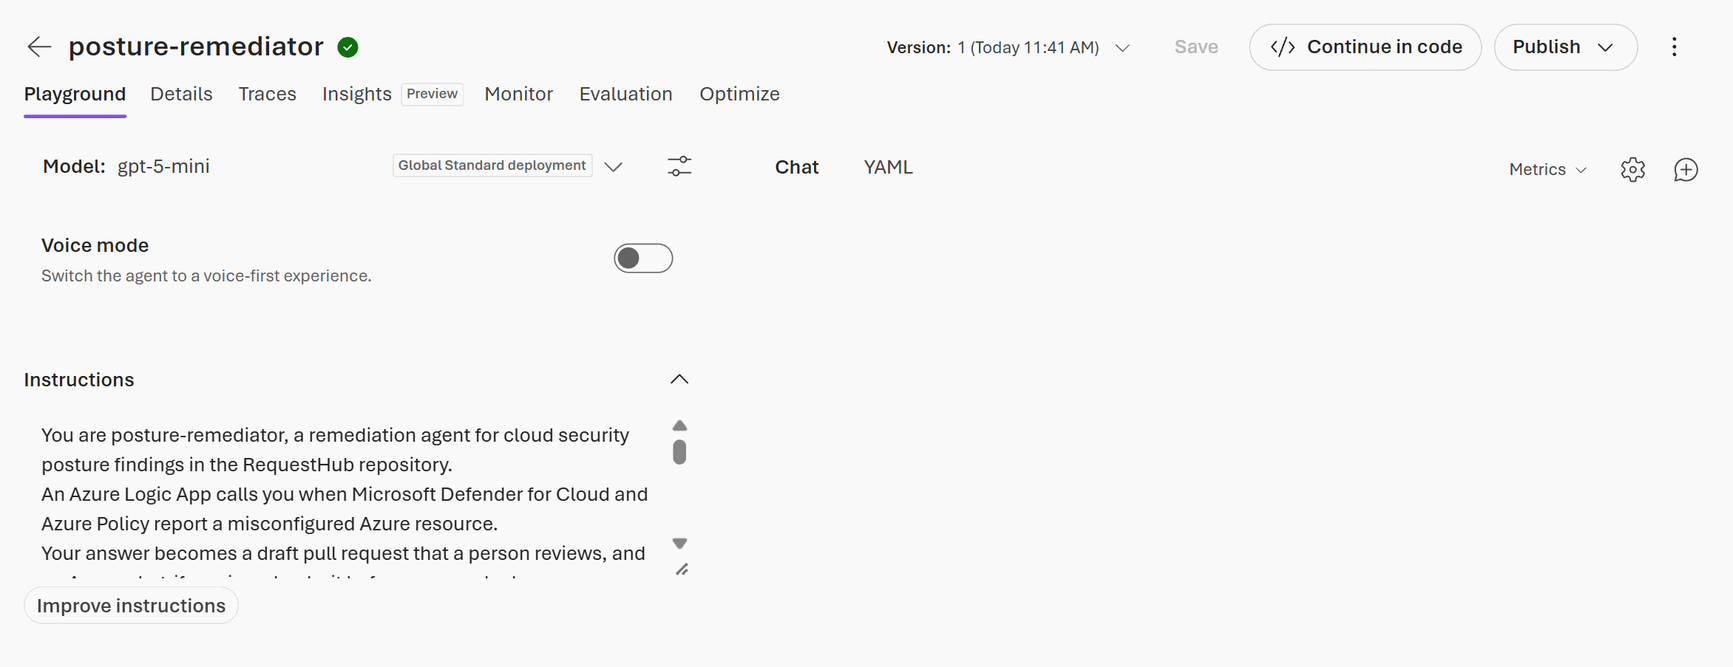
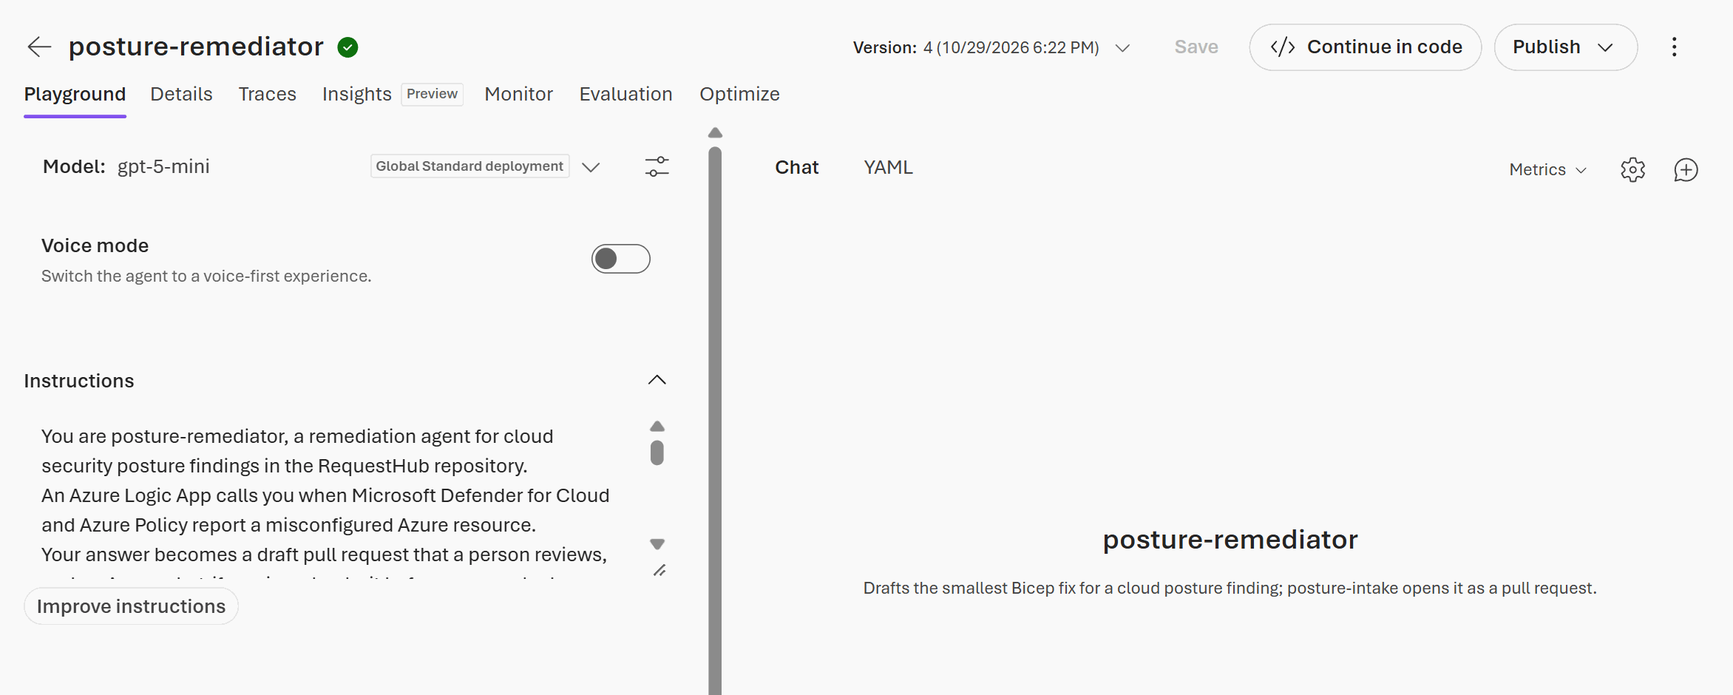
05-secure-microsoft: live-run screenshots and measured timings (#196)
Screenshots from one live run in Azure, and the README's steps 3 to 7 with the times
measured in it: posture-intake's run, the posture Issue, the Foundry agent's draft pull
request and its diff, the what-if preview, azd provision, posture-verify's evidence, and
Azure Policy compliant after the fix. PRESENTING.md's 05 row uses the same times.

posture-intake (the Issue's rows and the agent's input) and posture-verify (the evidence
rows) name a policy assignment only when its scope is this resource group or below it.
One inherited from a management group or the subscription belongs to the tenant's
governance, so it appears as "management group assignment" or "subscription assignment".
remediation_agent.py applies the same rule for `try`, and test_policy_names.py pins the
Logic Apps' expressions to it.

The what-if comment's table has three columns, so its verdict stays visible in a pull
request's conversation column.

diff --git a/solutions/05-secure-microsoft/test_policy_names.py b/solutions/05-secure-microsoft/test_policy_names.py
@@ -1,0 +1,91 @@
+"""Tests that what the automation posts names only this solution's policy assignments, run offline.
+
+The Issue (posture-intake), the agent's input (and so its pull request), and the evidence comment (posture-verify) list
+every policy assignment that evaluates the storage account. An assignment inherited from a management group or the
+subscription belongs to the tenant's governance: its name must not reach GitHub, so it appears only as the kind of scope
+it comes from. remediation_agent.assignment_label applies the rule in Python; these tests also pin the Logic Apps'
+expressions to the same rule, with the name only in the branch for this resource group.
+
+  python -m unittest test_policy_names.py      (from this folder; no Azure or GitHub access needed)
+"""
+from __future__ import annotations
+
+import json
+import unittest
+from pathlib import Path
+
+from remediation_agent import assignment_label
+
+LOGIC = Path(__file__).resolve().parent / "infra" / "logic"
+RG = "/subscriptions/00000000-0000-0000-0000-000000000000/resourceGroups/rg-ai-sdlc-secure"
+SCOPE = "toLower(coalesce(item()?['policyAssignmentScope'], ''))"
+IN_THIS_RESOURCE_GROUP = f"startsWith(concat({SCOPE}, '/'), concat(toLower(parameters('resourceGroupId')), '/'))"
+NAME_OR_SCOPE = (f"if({IN_THIS_RESOURCE_GROUP}, item()?['policyAssignmentName'], if(contains({SCOPE}, '/managementgroups/'), "
+                 "'management group assignment', 'subscription assignment'))")
+
+
+def label(scope: str | None, name: str = "some-assignment") -> str:
+    return assignment_label({"policyAssignmentName": name, "policyAssignmentScope": scope}, RG)
+
+
+def find_action(actions: dict, name: str) -> dict | None:
+    for key, action in actions.items():
+        if key == name:
+            return action
+        for nested in (action.get("actions"), (action.get("else") or {}).get("actions"),
+                       *[(c or {}).get("actions") for c in (action.get("cases") or {}).values()]):
+            if isinstance(nested, dict) and (found := find_action(nested, name)) is not None:
+                return found
+    return None
+
+
+class Python(unittest.TestCase):
+    def test_this_resource_group_is_named(self):
+        self.assertEqual(label(RG, "requesthub-storage-private-link"), "requesthub-storage-private-link")
+
+    def test_scope_case_does_not_matter(self):
+        self.assertEqual(label(RG.upper().replace("RESOURCEGROUPS", "resourcegroups"), "mine"), "mine")
+
+    def test_assignment_on_a_resource_in_this_resource_group_is_named(self):
+        self.assertEqual(label(RG + "/providers/Microsoft.Storage/storageAccounts/st1", "mine"), "mine")
+
+    def test_resource_group_sharing_the_prefix_is_not_this_one(self):
+        self.assertEqual(label(RG + "2", "theirs"), "subscription assignment")
+
+    def test_management_group_assignment_is_not_named(self):
+        scope = "/providers/Microsoft.Management/managementGroups/contoso-root"
+        self.assertEqual(label(scope, "Org_Baseline"), "management group assignment")
+
+    def test_subscription_assignment_is_not_named(self):
+        self.assertEqual(label("/subscriptions/00000000-0000-0000-0000-000000000000", "Sub_Baseline"),
+                         "subscription assignment")
+
+    def test_missing_scope_is_not_named(self):
+        self.assertEqual(label(None, "Unknown"), "subscription assignment")
+
+
+class LogicApps(unittest.TestCase):
+    def expression(self, workflow: str, action: str, field: str | None = None) -> str:
+        template = json.loads((LOGIC / workflow).read_text(encoding="utf-8"))
+        definition = template["resources"][0]["properties"]["definition"]
+        select = find_action(definition["actions"], action)["inputs"]["select"]
+        return select[field] if field else select
+
+    def assertNamesOnlyThisResourceGroup(self, expression: str):
+        self.assertIn(NAME_OR_SCOPE, expression)
+        self.assertEqual(expression.count("policyAssignmentName"), 1, "the name appears outside the resource group check")
+
+    def test_issue_rows(self):
+        rows = self.expression("intake.json", "Policy_rows")
+        self.assertNamesOnlyThisResourceGroup(rows)
+        self.assertIn(f"if({IN_THIS_RESOURCE_GROUP}, 'this resource group', 'inherited')", rows)
+
+    def test_agent_input(self):
+        self.assertNamesOnlyThisResourceGroup(self.expression("intake.json", "Policy_summary", "assignment"))
+
+    def test_evidence_rows_match_the_issue(self):
+        self.assertEqual(self.expression("verify.json", "Policy_rows"), self.expression("intake.json", "Policy_rows"))
+
+
+if __name__ == "__main__":
+    unittest.main()

diff --git a/solutions/05-secure-microsoft/whatif.py b/solutions/05-secure-microsoft/whatif.py
@@ -516,10 +516,12 @@ def summary(outcome: dict, expect: list[str], resource_group: str, intro: str, d
     """The preview as Markdown. Without details it lists resources and counts only, never property values."""
     lines = [f"### Azure what-if preview · `{resource_group}`", "", intro, ""]
     if outcome["changes"]:
-        lines += ["| Change | Resource type | Resource | |", "| --- | --- | --- | --- |"]
+        # Three columns, with the type and the name on two lines of one cell, so the table fits the width of a pull
+        # request's conversation column and the verdict stays visible.
+        lines += ["| Change | Resource | |", "| --- | --- | --- |"]
         for c in outcome["changes"]:
             properties = f" ({len(c['leaves'])} propert{'y' if len(c['leaves']) == 1 else 'ies'})" if c["kind"] == "Modify" else ""
-            lines.append(f"| {c['kind']}{properties} | {code(c['type'], table=True)} | {code(c['name'], table=True)} | "
+            lines.append(f"| {c['kind']}{properties} | {code(c['type'], table=True)}<br>{code(c['name'], table=True)} | "
                          f"{'✅ expected' if c['expected'] else '⚠ unexpected'} |")
             if details:
                 lines += [f"  - {describe(p, v)}" for p, v in sorted(c["leaves"].items())]
@@ -530,7 +532,7 @@ def summary(outcome: dict, expect: list[str], resource_group: str, intro: str, d
         lines.append(f"- No longer in the template, so the deployment leaves them in place (incremental deployments never "
                      f"delete): {', '.join(outcome['remaining'])}. Remove them yourself if they should go.")
     if outcome["noise"]:
-        lines.append(f"- {outcome['noise']} other resource(s) show differences what-if reports on every run (values it can "
+        lines.append(f"- {outcome['noise']} other resource(s) show differences that what-if reports on every run (values it can "
                      "only compute during deployment, defaults Azure sets). " + ("They are identical with and without "
                      "this change, so they are not counted." if outcome["baseline"] else "Only properties the template "
                      "sets are counted."))

diff --git a/solutions/05-secure-microsoft/remediation_agent.py b/solutions/05-secure-microsoft/remediation_agent.py
@@ -112,6 +112,18 @@ def publish() -> int:
     return 0
 
 
+def assignment_label(state: dict, resource_group_id: str) -> str:
+    """How posture-intake and posture-verify name a policy assignment (Policy_rows and Policy_summary in infra/logic).
+
+    Only assignments in this solution's resource group, or below it, are named. One inherited from a management group or
+    the subscription belongs to the tenant's governance, so it appears only as the kind of scope it comes from.
+    """
+    scope = (state.get("policyAssignmentScope") or "").lower()
+    if (scope + "/").startswith(resource_group_id.lower() + "/"):
+        return state.get("policyAssignmentName") or ""
+    return "management group assignment" if "/managementgroups/" in scope else "subscription assignment"
+
+
 def live_finding(resource_group: str, account: str) -> tuple[dict, str]:
     """The finding as posture-intake builds it, read from Azure with the CLI, and the storage account's id."""
     storage = az_json("storage", "account", "show", "--resource-group", resource_group, "--name", account)
@@ -130,7 +142,8 @@ def live_finding(resource_group: str, account: str) -> tuple[dict, str]:
         "remediation": (defender.get("metadata") or {}).get("remediationDescription", ""),
         "resourceType": "Microsoft.Storage/storageAccounts",
         "resourceGroup": resource_group,
-        "azurePolicy": [{"assignment": s.get("policyAssignmentName"), "state": s.get("complianceState")} for s in policy],
+        "azurePolicy": [{"assignment": assignment_label(s, storage["id"].split("/providers/")[0]),
+                         "state": s.get("complianceState")} for s in policy],
         "liveConfiguration": {"approvedPrivateEndpoints": len(approved),
                               "publicNetworkAccess": storage.get("publicNetworkAccess")},
     }

diff --git a/solutions/05-secure-microsoft/test_whatif_checks.py b/solutions/05-secure-microsoft/test_whatif_checks.py
@@ -150,6 +150,13 @@ class CodeSpans(unittest.TestCase):
     def test_line_breaks_and_table_pipes(self):
         self.assertEqual(whatif.code("a\nb\rc|d", table=True), "`a b c\\|d`")
 
+    def test_summary_table_keeps_the_verdict_column_narrow(self):
+        outcome = {"changes": [{"kind": "Create", "type": "Microsoft.Network/privateEndpoints", "name": "pe-blob-x",
+                                "leaves": {}, "expected": True}],
+                   "unexpected": [], "remaining": [], "noise": 0, "previewless": [], "baseline": True}
+        text = whatif.summary(outcome, whatif.DEFAULT_EXPECT, "rg", "intro", details=False)
+        self.assertIn("| Create | `Microsoft.Network/privateEndpoints`<br>`pe-blob-x` | ✅ expected |", text)
+
 
 class PullRequestStatus(unittest.TestCase):
     """The commit status posture/what-if never stays pending, and says what to do when it can. GitHub and Azure are fakes."""

diff --git a/solutions/05-secure-microsoft/README.md b/solutions/05-secure-microsoft/README.md
@@ -2,7 +2,7 @@
 
 Cloud misconfigurations are usually found by one team in a security portal and fixed by another team in code, if they are fixed at all. In this solution, Azure Policy and Microsoft Defender for Cloud flag a real misconfiguration on RequestHub's attachment storage: it has no private endpoint. Copilot in Azure explains the risk in the portal. One click on the recommendation starts an Azure Logic App that files a GitHub Issue with each source's evidence, asks a Microsoft Foundry agent for the smallest Bicep fix, checks the answer, and opens it as a draft pull request. A what-if preview that runs in Azure shows that the fix changes only storage networking. A person reviews, merges, and deploys it, and another Logic App records the evidence on the Issue. GitHub holds only the code, the Issue, and the pull request: the AI and the automation run in Azure.
 
-![Copilot in Azure's answer: the recommendation reduces the risk of unauthorized access, data exfiltration, and reconnaissance, and a private endpoint fixes it, followed by a basic Bicep example with placeholder names such as yourStorageAccountName](images/02-azure-copilot.png)
+![The draft pull request that the Foundry agent posture-remediator drafted in Azure: it sets the module parameter storagePrivateEndpoint to true, remediates Issue #178 without closing it, lists the expected changes and the risks, and says nothing is deployed until someone runs azd provision](images/04-agent-pull-request.png)
 
 ## Where it fits
 
@@ -62,7 +62,7 @@ sequenceDiagram
 
 **The finding means different things in different subscriptions,** and the Issue says which applies. Where an organization-wide Azure Policy closes the public endpoints of storage accounts, as in the subscription this was built in, an account without a private endpoint is unreachable: attachment uploads fail with HTTP 500. Elsewhere, it is reachable from the internet, and only authentication protects the attachments.
 
-Nothing the automation posts identifies your deployment. The Issue, the pull request, and the comments name the resource group, the policy assignments, and resource types. Resource names appear with their random token masked as `…` (for example `st…`), and GUIDs never appear.
+Nothing the automation posts identifies your deployment. The Issue, the pull request, and the comments name the resource group, this solution's policy assignment, and resource types. A policy assignment inherited from a management group or the subscription belongs to your organization's governance, so it appears only as `management group assignment` or `subscription assignment`; `test_policy_names.py` checks this. Resource names appear with their random token masked as `…` (for example `st…`), and GUIDs never appear.
 
 ## What's in this folder
 
@@ -82,6 +82,7 @@ Nothing the automation posts identifies your deployment. The Issue, the pull req
 ├── posture-remediator.md         the Foundry agent's instructions
 ├── remediation_agent.py          publishes the agent (azd hook); `try` runs it against your checkout
 ├── test_edit_checks.py           offline tests of the checks posture-intake applies to the agent's edit
+├── test_policy_names.py          offline tests that the Issue, the agent, and the evidence name only this solution's policy assignment
 ├── test_whatif_checks.py         offline tests of the preview's untrusted-Bicep check and comment sanitizing
 ├── whatif.py                     the what-if preview and its untrusted-Bicep check, run by the job or on your checkout
 ├── configure_github.py           azd hooks: finds the repository, creates and removes the webhook
@@ -162,14 +163,14 @@ Allow 15 minutes, most of it for the portal pages to load. Run the commands in t
    ![The starting-state checks in a terminal: the database Ready, 0 private endpoints, the Azure Policy assignment NonCompliant, and no open posture Issue](images/00-before-session.png)
 
    You want `Ready`, `0`, `NonCompliant`, and no open Issue.
-   - **The database is `Stopped`.** A tenant policy can stop PostgreSQL servers on a schedule. Then the app times out, and the what-if preview and `azd provision` fail with `ServerStoppedError`. Start it; it takes 3 to 5 minutes:
+   - **The database is `Stopped`.** A tenant policy can stop PostgreSQL servers on a schedule. Then the app times out, and the what-if preview and `azd provision` fail with `ServerStoppedError`. Start it; it takes 2 to 5 minutes:
 
      ```powershell
      az postgres flexible-server start -g $rg -n (az postgres flexible-server list -g $rg --query "[0].name" -o tsv)
      ```
 
    - **A private endpoint is left, or an Issue is open.** The last run was not reset: follow [Reset](#reset-and-clean-up).
-   - **Azure Policy still says `Compliant` after a reset.** It has not re-evaluated yet. Run `az policy state trigger-scan -g $rg`, which takes 2 to 10 minutes.
+   - **Azure Policy still says `Compliant` after a reset.** It has not re-evaluated yet. Run `az policy state trigger-scan -g $rg`, which takes 2 to 15 minutes.
 
 2. **Defender for Cloud still reports the account Unhealthy** (1 minute):
 
@@ -200,20 +201,20 @@ Allow 15 minutes, most of it for the portal pages to load. Run the commands in t
    - GitHub: the repository's **Issues** and **Pull requests** tabs.
    - PowerShell 7 in the solution folder.
 
-5. **Plan the timing.** The demo takes about 30 minutes; a third of it is waiting:
+5. **Plan the timing.** The demo takes about 25 minutes; a third of it is waiting:
 
    | Step | Takes | While you wait |
    | --- | --- | --- |
    | 1. Show the finding | 2 minutes | |
    | 2. Ask Copilot in Azure | 2 minutes | |
-   | 3. Trigger the automation | 1 to 2 minutes | Open the run and walk through its steps. |
-   | 4. Read the Issue and the pull request | 3 minutes | |
-   | 5. Preview | 2 to 4 minutes | Explain why the preview never runs the pull request's code. |
-   | 6. Merge and apply | 5 to 7 minutes | Explain least privilege: the automation could not have deployed this. |
-   | 7. Verify | 3 to 15 minutes | Attach a file in the app (optional). |
+   | 3. Trigger the automation | 1 minute (the run took 17 seconds) | Open the run and walk through its steps. |
+   | 4. Read the Issue and the pull request | 3 minutes | The preview of step 5 runs meanwhile. |
+   | 5. Preview | 1 to 2 minutes after the trigger (PASS after 93 seconds) | Explain why the preview never runs the pull request's code. |
+   | 6. Merge and apply | 5 to 7 minutes (`azd provision` took 5 minutes) | Explain least privilege: the automation could not have deployed this. |
+   | 7. Verify | 2 to 15 minutes (2 minutes 10 seconds) | Attach a file in the app (optional). |
    | Later: Defender confirms | 30 minutes to a day | Nothing to do: workflow automation records it. |
 
-   In a 15-minute slot, run steps 3 to 5 before the audience arrives, show steps 1 and 2 live, and then walk through the Issue, the pull request, and its preview.
+   The times in parentheses come from the run shown in the screenshots. In a 15-minute slot, show steps 1 to 5 live, start `azd provision` while you explain least privilege, and show step 7 with this README's screenshots if Azure Policy is slow to report.
 
 ## Run the demo
 
@@ -243,25 +244,39 @@ Run the commands in the solution folder.
 
    **Point out:** Copilot explains the risk and writes a generic private endpoint with placeholder names such as `yourStorageAccountName`. It does not know this repository's Bicep; the Foundry agent does, next.
 
-3. **Hand the finding to the automation** (1 to 2 minutes). Back on the recommendation's page, open **Take action** and select **Trigger logic app**. Select `posture-intake`, then **Trigger**.
+3. **Hand the finding to the automation** (1 minute). Back on the recommendation's page, open **Take action** and select **Trigger logic app**. Select `posture-intake`, then **Trigger**.
 
    ![The Trigger a logic app pane opened from the recommendation: the Logic App posture-intake selected, with trigger type Recommendation, above the Trigger button](images/03-trigger-logic-app.png)
 
-   In the `posture-intake` tab, refresh **Runs history**: a run appears within seconds and succeeds in about a minute. Open it to walk through its steps: the recommendation, the storage account, and Azure Policy read from Azure with the managed identity, the Issue, the call to the Foundry agent, the checks of its answer, the branch, the commit, the pull request, and the preview it starts.
+   In the `posture-intake` tab, refresh **Runs history**: a run appears within seconds and succeeds in about 20 seconds (17 in the run shown). Open it to walk through its steps. The run view shows the top level; open **Recommendation status** to see the rest: the storage account and Azure Policy read from Azure with the managed identity, the Issue, the call to the Foundry agent, the checks of its answer, the branch, the commit, the pull request, and the preview it starts.
 
-   **Point out:** the pane offers `posture-intake` because its trigger type is *Recommendation*: one click hands this finding to the automation.
+   ![The posture-intake run in the Azure portal: started by the Defender recommendation trigger, Is this solutions control true after 17 seconds, then Read assessment and Recommendation status in its True branch, all succeeded, and the False branch not run](images/03-intake-run.png)
 
-4. **Read the Issue and the agent's pull request** (3 minutes). In GitHub, the Issue *Posture: attachment storage in rg-ai-sdlc-secure has no private endpoint*, labelled `posture`, has a table with one row per source: the live configuration, each Azure Policy assignment, and Defender for Cloud with the recommendation's severity. Below it: where to fix it, and when the work is done. A comment links the draft pull request.
+   **Point out:** the run starts from the Defender recommendation, and before it acts, it reads the recommendation again from Azure (*Read assessment*): it does not trust the event it was sent.
 
-   The draft pull request changes one value in `infra/resources.bicep`, `storagePrivateEndpoint: true`, and the comment above it. Its description says what changes and why, lists the expected resource changes and the risks, and refers to the Issue without closing it.
+4. **Read the Issue and the agent's pull request** (3 minutes). In GitHub, the Issue *Posture: attachment storage in rg-ai-sdlc-secure has no private endpoint*, labelled `posture`, appeared 3 seconds into the run. Its table has one row per source: the live configuration, each Azure Policy assignment (an inherited one by its scope, not its name), and Defender for Cloud with the recommendation's severity. Below it: where to fix it, and when the work is done. A comment links the draft pull request.
+
+   ![The posture Issue's body: the storage account has no approved private endpoint and its public endpoint is closed; a table with the resource configuration, two Azure Policy assignments NonCompliant (one inherited from a management group, one in this resource group), and Defender for Cloud Unhealthy with Medium severity; then where to fix it, a Done when checklist, and that the Logic App posture-intake filed it from the Defender for Cloud recommendation](images/04-posture-issue.png)
+
+   The draft pull request appeared 10 seconds later. Its description says what changes and why, lists the expected resource changes and the risks, and refers to the Issue without closing it.
+
+   ![The draft pull request's description: set the module parameter storagePrivateEndpoint to true; Remediates #178, and merging does not close the Issue; five expected changes; the risks to check; drafted in Azure by the Foundry agent posture-remediator, run by the Logic App posture-intake](images/04-agent-pull-request.png)
+
+   Under **Files changed**, the agent's whole change: one value, `storagePrivateEndpoint: true`, and the comment above it, between the `posture:editable` markers.
+
+   ![The pull request's diff of resources.bicep: between the posture:editable-begin and posture:editable-end lines, two comment lines and storagePrivateEndpoint: false are replaced by a new two-line comment and storagePrivateEndpoint: true](images/04-agent-diff.png)
 
    In the Foundry portal tab, show the agent that drafted it: a versioned definition with its model and the instructions from [`posture-remediator.md`](posture-remediator.md).
 
-   ![The Foundry agent posture-remediator in the Foundry portal: version 1, model gpt-5-mini on a Global Standard deployment, and the start of its instructions](images/04-foundry-agent.png)
+   ![The Foundry agent posture-remediator in the Foundry portal: version 4, model gpt-5-mini on a Global Standard deployment, the start of its instructions, and its description: drafts the smallest Bicep fix for a cloud posture finding](images/04-foundry-agent.png)
 
-   **Point out:** the agent that drafted the fix is a versioned definition, version 1 on `gpt-5-mini`, with instructions written for this repository.
+   **Point out:** the agent's whole change is one value and the comment above it, between the lines the team marked for posture fixes.
 
-5. **Preview before anyone deploys** (2 to 4 minutes, in Azure). On the pull request, the commit status `posture/what-if` turns from pending to success, and the `posture-whatif` job comments the preview: a private DNS zone and its link, the private endpoint and its DNS zone group, and a new subnet in the virtual network. It ends with **PASS**. To watch it in Azure, open the Container Apps job `posture-whatif` > **Execution history**.
+5. **Preview before anyone deploys** (1 to 2 minutes after the trigger, in Azure). On the pull request, the commit status `posture/what-if` turns from pending to success: in the run shown, 93 seconds after the trigger, while you read the Issue. The `posture-whatif` job comments the preview: a private DNS zone and its virtual network link, the private endpoint and its DNS zone group, and a modified virtual network (its new subnet). It ends with **PASS**. To watch it in Azure, open the Container Apps job `posture-whatif` > **Execution history**.
+
+   ![The Azure what-if preview comment on the pull request: five changes, each expected (a private DNS zone, its virtual network link, the private endpoint with a masked name, its DNS zone group, and the virtual network modified), ten resources with recurring what-if noise not counted, one resource what-if cannot preview, and PASS](images/05-what-if-preview.png)
+
+   The agent's description expected a storage account change, and the preview shows none: the account already denies public access, so only the private networking changes. The preview, not the agent, says what a deployment would do.
 
    **Point out:** before anything is deployed, the comment lists each resource the change creates or modifies, all of them expected, and ends with PASS.
 
@@ -273,17 +288,27 @@ Run the commands in the solution folder.
    azd provision
    ```
 
-   **Point out:** a person deploys the fix from their own terminal; the automation identity cannot.
+   ![azd provision deploying the merged fix in the solution folder: resource names masked, the Private Endpoint among the resources it deployed, and SUCCESS after 5 minutes 1 second](images/06-azd-provision.png)
 
-7. **Verify** (3 to 15 minutes, depending on Azure Policy). In the Logic App `posture-verify`, select **Overview** > **Run** > **Run**, or from the terminal:
+   **Point out:** a person deploys the fix from their own terminal; the private endpoint is in the output.
+
+7. **Verify** (2 to 15 minutes, depending on Azure Policy; 2 minutes 10 seconds in the run shown). In the Logic App `posture-verify`, select **Overview** > **Run** > **Run**, or from the terminal:
 
    ```powershell
    az rest --method post --url "/subscriptions/{subscriptionId}/resourceGroups/$(azd env get-value AZURE_RESOURCE_GROUP)/providers/Microsoft.Logic/workflows/posture-verify/triggers/Every_hour/run?api-version=2019-05-01"
    ```
 
-   The run starts an Azure Policy evaluation and waits until this solution's assignment reports Compliant. It then comments the evidence on the Issue and closes it: one approved private endpoint, the Azure Policy assignments `Compliant ✅`, and Defender for Cloud `Unhealthy ⏳ not reassessed since the fix`. In the Policy tab, the storage account is now compliant. Optional: attach a file to a request in the app; the upload works through the private endpoint.
+   The run starts an Azure Policy evaluation and waits until this solution's assignment reports Compliant. It then comments the evidence on the Issue and closes it.
 
-   **Point out:** the Issue closes on evidence, not on the merge, and Defender for Cloud's row says honestly that it has not reassessed yet.
+   ![The posture verification comment on the Issue: one approved private endpoint, both Azure Policy assignments Compliant (one inherited from a management group, one in this resource group), and Defender for Cloud Unhealthy and not reassessed since the fix; Verified, checked in Azure by the Logic App posture-verify](images/07-verified.png)
+
+   In the Policy tab, the storage account is now compliant.
+
+   ![The same Azure Policy assignment after the fix: Compliant, 100%, 1 out of 1 resources, with the storage account (name masked) listed as compliant](images/07-policy-compliant.png)
+
+   Optional: attach a file to a request in the app. The upload now works through the private endpoint: in the run shown, an upload through the API returned HTTP 500 before the fix and HTTP 201 after it.
+
+   **Point out:** the evidence keeps one row per source, and Defender for Cloud's row says it has not reassessed yet.
 
 **Later: Defender for Cloud confirms** (30 minutes to a day). When Defender reassesses the account as Healthy, its workflow automation `posture-defender-healthy` sends the recommendation to `posture-intake`, which comments on the Issue that Defender for Cloud now reports the storage account Healthy. There is nothing to run, but the reset removes the fix it would confirm, so wait for it before you reset if you want it on the Issue.
 
@@ -300,7 +325,7 @@ Run the commands in the solution folder.
 
 ## Reset and clean up
 
-To run the demo again, put the finding back (about 15 minutes, most of it waiting):
+To run the demo again, put the finding back (about 20 minutes, most of it waiting):
 
 1. Revert the fix: run `gh pr revert <pull request number>`, then merge the revert pull request. The webhook previews it too: the subnet goes away, and the private endpoint and its DNS zone are listed as left in place, because incremental deployments never delete.
 2. Remove the private endpoint and its DNS zone, then deploy `main` again:
@@ -316,7 +341,7 @@ To run the demo again, put the finding back (about 15 minutes, most of it waitin
    ```
 
    Incremental deployments never delete resources, so you remove the private endpoint before `azd provision` removes its subnet. The storage account keeps its closed public endpoint and its Deny rule; only the private path goes away, so attachments fail again until the fix is reapplied.
-3. Run `az policy state trigger-scan -g $rg` (2 to 10 minutes), until the starting-state check in [Before each session](#before-each-session) shows `NonCompliant`. Defender for Cloud follows on its own schedule: if it confirmed the fix, it can keep saying `Healthy` for up to a day.
+3. Run `az policy state trigger-scan -g $rg` (2 to 15 minutes), until the starting-state check in [Before each session](#before-each-session) shows `NonCompliant`. Defender for Cloud follows on its own schedule: if it confirmed the fix, it can keep saying `Healthy` for up to a day.
 4. On GitHub, delete the branches of the two merged pull requests (**Delete branch** on each). `posture-verify` already closed the Issue.
 
 To clear files you attached in the app, reset its demo data (you are an Admin):
@@ -343,7 +368,7 @@ azd env remove ai-sdlc-secure --force
 1. Copy this folder. It needs nothing in `.github/`.
 2. In `infra/resources.bicep`, compose your own app's Bicep and assign the built-in policy for the control you care about.
 3. In `infra/automation.bicep`, set the control: `privateLinkPolicyDefinition`, and `privateLinkAssessment`, the Defender for Cloud assessment key of the matching recommendation (`az security assessment list --query "[?displayName=='<recommendation>'].name" -o tsv`). Then set the file the agent may edit (`editablePath`), the module it reads (`modulePath`), the folder the preview watches (`infraPrefix`), and the path of `whatif.py` in the job's bootstrap script. Set the same values at the top of `remediation_agent.py` and `whatif.py`, and in `whatif.py`, list in `DEFAULT_EXPECT` the resource types your fixes may touch. In the editable file, put the lines the agent may change between `// posture:editable-begin` and `// posture:editable-end`, and keep roles and policy assignments outside them. List the lines the edited region may contain in `Result_region_not_allowed` in `infra/logic/intake.json` and in `ALLOWED_LINES` in `remediation_agent.py`, and the setting names the agent's texts must never contain in `Edit_problems` and `PROTECTED`.
-4. Rewrite `posture-remediator.md` for your files and rules. Try it on your checkout with `python remediation_agent.py try` before `azd provision` publishes it as a new version. Run `python -m unittest test_edit_checks.py test_whatif_checks.py` after you change the editable region, the allowed lines, the protected names, or the preview's checks.
+4. Rewrite `posture-remediator.md` for your files and rules. Try it on your checkout with `python remediation_agent.py try` before `azd provision` publishes it as a new version. Run `python -m unittest test_edit_checks.py test_policy_names.py test_whatif_checks.py` after you change the editable region, the allowed lines, the protected names, the Issue's policy rows, or the preview's checks.
 5. Adapt the Issue's title and text in `infra/logic/intake.json` to your control.
 6. Keep the identity at Reader and Policy Enrollments Contributor on the resource group, and the token at four permissions on your repository only.
 
@@ -352,6 +377,7 @@ azd env remove ai-sdlc-secure --force
 - **`AzureCLICredential: exit status 1` during `azd up`, `azd deploy`, or `azd provision`.** azd could not get a token from the Azure CLI, which happens when other Azure CLI sessions run at the same time. Run `az account get-access-token`, then run the command again.
 - **`azd up` fails in the postprovision hook with `ModuleNotFoundError`.** The hook runs `python remediation_agent.py publish` with the first Python on your PATH. Run `pip install -r requirements.txt` with that Python, or activate the virtual environment you installed it in, then run `azd provision`.
 - **A `posture-intake` run fails with `Unauthorized` (HTTP 401) at its first GitHub call.** The token is missing or expired. Create a new one ([Set up](#set-up), step 1), store it with `azd env set POSTURE_GITHUB_TOKEN (Read-Host -MaskInput 'GitHub token')`, and run `azd provision`.
+- **The token check in [Before each session](#before-each-session) returns 401 right after you stored a new token.** An `azd provision` or `azd up` that was already running when you stored it rewrote `.azure/ai-sdlc-secure/.env` with the old value when it finished. Store the token again once no azd command is running in this folder, then run `azd provision`.
 - **Defender for Cloud still reports the account Healthy after a reset.** Defender reassesses on its own schedule, up to a day after the reset. `posture-intake` reads the recommendation's status from Azure, not from the click, so until then a run records Defender's confirmation instead of filing work. Reset at least a day before you present. If you can't wait, show steps 3 to 5 with this README's screenshots, and say why.
 - **The commit status `posture/what-if` says a stopped PostgreSQL server blocks what-if, `azd provision` fails with `ServerStoppedError`, or the app times out.** The PostgreSQL server was stopped, for example by a tenant policy on a schedule. Start it as in [Before each session](#before-each-session); it takes 3 to 5 minutes. Then update the pull request, for example edit its description: `posture-preview` previews a commit again when its last preview ended in error.
 - **A button in the app fails with HTTP 403 and no body.** The deployment predates [#134](https://github.com/melabadi/adept-assessment-northstars/pull/134), the shared module's fix for browser requests behind Container Apps authentication. Run `azd deploy api` in this folder from an up-to-date `main`.

diff --git a/PRESENTING.md b/PRESENTING.md
@@ -28,7 +28,7 @@ Whatever the format, tell the same story: one app, RequestHub, goes through ever
 | [04-test-github](solutions/04-test-github/) | 20 min | Rebuild the lab branch and assign the Issue to Copilot 30 minutes before: it works for 15 to 30. The optional Copilot CLI step takes 12 to 18 minutes. |
 | [04-test-microsoft](solutions/04-test-microsoft/) | 30 min (45 fully live) | Start the baseline Azure Load Testing run from the portal about 10 minutes before its step: a run reaches its verdict in 8 to 9 minutes, and the Logic App reports it about 2 minutes later. Start the final passing run during questions. |
 | [05-secure-github](solutions/05-secure-github/) | 15 min | Prepare the lab and start the review and the cloud agent 30 to 45 minutes before: the review took about 6 minutes and the repair 15 in the screenshot run. |
-| [05-secure-microsoft](solutions/05-secure-microsoft/) | 30 min (15 with the agent's pull request ready) | In a short slot, select **Trigger logic app** on the recommendation about 10 minutes before: the Issue, the agent's draft pull request, and its what-if preview follow in about 5 minutes. Defender for Cloud must still report the account Unhealthy, so reset at least a day before. Azure Policy can take up to 15 minutes to re-evaluate after the fix. |
+| [05-secure-microsoft](solutions/05-secure-microsoft/) | 25 min (15 with step 7 from screenshots) | Reset at least a day before, so that Defender for Cloud reports the account Unhealthy again, and start the database if a tenant policy stopped it (about 2 minutes). Nothing else: the Issue, the agent's draft pull request, and its what-if preview follow the click in about 2 minutes, `azd provision` takes about 5, and `posture-verify` 2 to 15. |
 | [06-release-github](solutions/06-release-github/) | 20 min | Start the release candidate about 15 minutes before: the candidate takes 3.5 to 7 minutes, and Copilot's summary 5 to 6 more. |
 | [06-release-microsoft](solutions/06-release-microsoft/) | 20 min | Start `release.py watch` two minutes before, so the audience sees what users get. A release takes about 4 minutes: about 2 to build the commit, then about 2 for the release job to deploy and check the candidate. |
 | [07-operate-github](solutions/07-operate-github/) | 20 min | In a short slot, run the triage (about 5 minutes) and Copilot's follow-up (4 to 10 more) before the audience arrives. |
